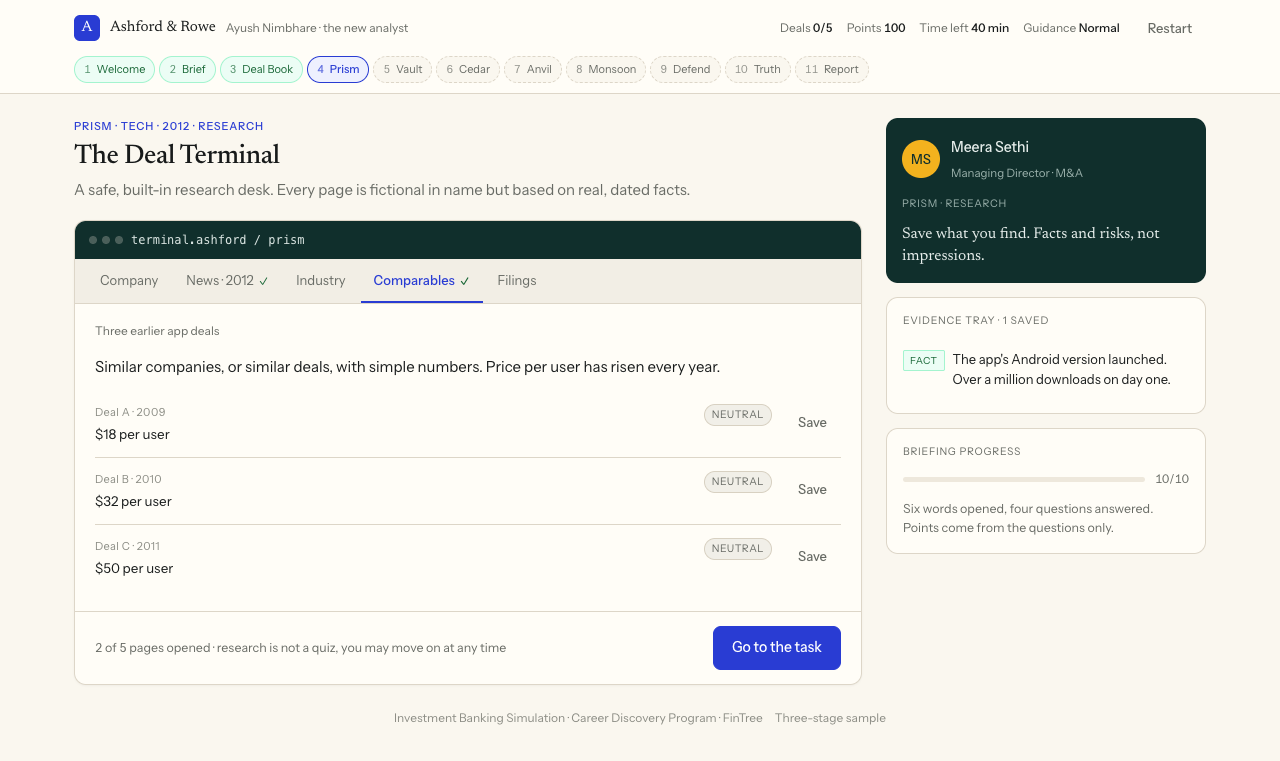
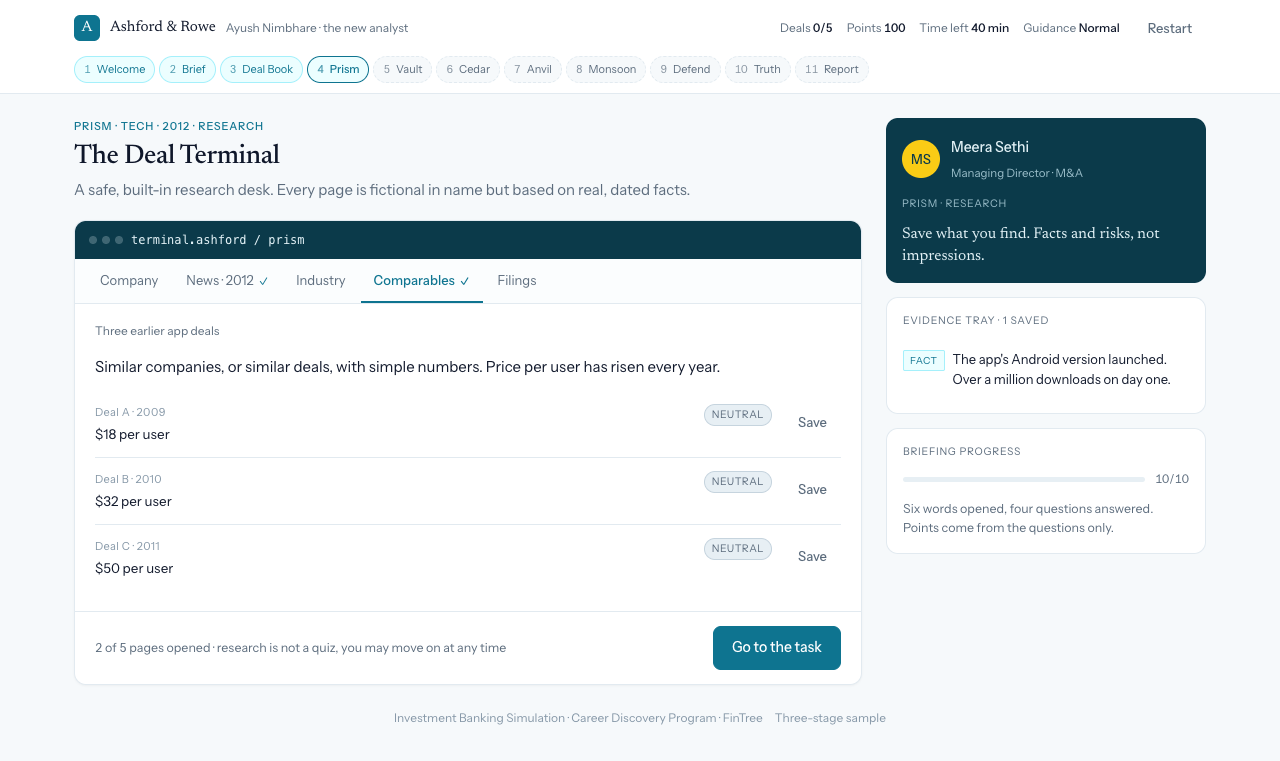
Retint the sample to a 60/30/10 palette: white, cyan, yellow
60%  white   every surface
   30%  cyan    the brand - buttons, links, the active chip, the
                companion card, the fair-range band, focus rings
   10%  yellow  the accent, spent only where it means "look here"

The 10% is the point. It lands on the marker on the fair-range bar
(the band is cyan, your price is yellow), the correct quiz answer,
the right valuation metric, the receipt stamp, the avatar and the
low clock. Cyan and yellow have to stay distinguishable, so the
correct states take yellow rather than cyan: a picked option is
cyan, a correct one yellow, a wrong one red.

Red stays outside the ratio. A wrong answer and a risk flag have to
look wrong whatever the brand is doing, so --signal-risk is
untouched - which is why the green went and the red did not.

FinTree's own tokens in static/tokens.css are left exactly as they
were, recovered-values comment and all. The palette is an override
block at the top of static/ib.css, which is the sample's own
stylesheet and already owned the track mapping. Nothing else names a
colour: the only hex left outside that block is white-on-fill, and
ib.js has no colour literals at all. Reverting to FinTree's real
palette is deleting one block.

Stray green-tinted literals in the terminal bar and companion card
were promoted to --on-dark / --on-dark-soft / --on-dark-faint rather
than patched in place.

All six screenshots re-captured; 52 tests still pass; zero console
errors across a full run.

diff --git a/static/ib.css b/static/ib.css
@@ -2,20 +2,92 @@
    FinTree CDP — Investment Banking sample
    Shell + stage styles for the three-stage sample.
 
-   PALETTE
-     The blueprint (p19) says the style should match the VC simulation:
-     "cream workspace, navy, gold". Resolved against the recovered tokens:
-       cream workspace  ->  --paper         #f6f9fb
-       navy             ->  --track-ib      #00bcd4   (the platform's own IB token)
-       gold             ->  --brand-accent  #facc15
-     Naming the tokens rather than the colours is deliberate — see the review.
+   PALETTE — the 60 / 30 / 10 rule
 
-   Depends on assets/tokens.css for variables and base resets.
+     60%  WHITE    every surface. The page, the cards, the terminal window,
+                   the rail. If it is a background, it is white.
+
+     30%  CYAN     the brand. Primary buttons, links, the active chip, focus
+                   rings, the companion card, the fair-range band, and every
+                   structural rule that should read as "ours".
+
+     10%  YELLOW   the accent, spent on purpose and nowhere else: the marker
+                   on the fair-range bar, the correct answer, the right
+                   metric, the receipt stamp, the avatar, the low clock.
+                   If it is yellow, it is the thing to look at.
+
+     RED stays outside the ratio. A wrong answer and a risk flag have to look
+     wrong whatever the brand is doing, so `--signal-risk` is untouched. It is
+     a functional colour, not part of the theme.
+
+     The tokens in tokens.css are FinTree's own, recovered from their live
+     platform. They are left exactly as they were so the provenance stays
+     readable; this file overrides the ones the sample consumes. Nothing else
+     in the sample names a colour directly — ib.css contains no hex literals
+     and ib.js contains none at all — so this block is the whole theme.
+
+   Depends on static/tokens.css for variables and base resets.
    ========================================================================== */
 
 :root {
-  --track: var(--track-ib);
-  --track-bg: var(--track-ib-bg);
+  /* --- 60 · white ------------------------------------------------------- */
+  --c-60:      #ffffff;
+  --c-60-soft: #fbfdfe;
+  --c-60-page: #f6f9fb;
+  --c-60-deep: #e7eff4;
+
+  /* --- 30 · cyan -------------------------------------------------------- */
+  --c-30:        #0e7490;   /* 5.4:1 on white — safe for text and buttons */
+  --c-30-bright: #06b6d4;
+  --c-30-soft:   #ecfeff;
+  --c-30-deep:   #164e63;
+  --c-30-deeper: #0b3a4a;
+
+  /* --- 10 · yellow ------------------------------------------------------ */
+  --c-10:      #facc15;     /* fills and marks — never small text on white */
+  --c-10-soft: #fefce8;
+  --c-10-deep: #a16207;     /* when yellow has to be readable as text */
+
+  /* --- surfaces (60) ---------------------------------------------------- */
+  --paper:        var(--c-60-page);
+  --paper-soft:   var(--c-60-soft);
+  --paper-deep:   var(--c-60-deep);
+  --paper-bright: var(--c-60);
+
+  /* --- ink -------------------------------------------------------------- */
+  --ink:         #0f172a;
+  --ink-soft:    #1e293b;
+  --ink-raised:  #0b1220;
+  --muted:       #5b6b7c;
+  --muted-soft:  #8496a6;
+  --line:        #e2eaf0;
+  --line-strong: #c6d4de;
+
+  /* --- brand (30) ------------------------------------------------------- */
+  --brand-primary: var(--c-30);
+  --track-ib:        var(--c-30);
+  --track-ib-bg:     var(--c-30-soft);
+  --track:           var(--c-30);
+  --track-bg:        var(--c-30-soft);
+  --link:            var(--c-30);
+  --sea:             var(--c-30-deep);
+  --sea-deep:        var(--c-30-deeper);
+
+  /* --- accent (10) ------------------------------------------------------ */
+  --brand-accent: var(--c-10);
+
+  /* --- text on the deep-cyan surfaces (terminal bar, companion card) ----- */
+  --on-dark:       #e3f2f7;
+  --on-dark-soft:  #9dc0cc;
+  --on-dark-faint: #3f6673;
+
+  /* --- positive states read as brand; only risk stays outside the ratio -- */
+  --signal-attractive:      var(--c-30);
+  --signal-attractive-bg:   var(--c-30-soft);
+  --signal-attractive-line: #a5f0fb;
+  --signal-context:         var(--muted);
+  --signal-context-bg:      var(--c-60-deep);
+  --signal-context-line:    var(--line-strong);
 
   --shell-max: 1180px;
   --rail-width: 320px;
@@ -100,7 +172,9 @@ body {
   font-weight: 500;
 }
 
-.clock--low { color: var(--danger); }
+/* The clock never blocks (see the README), so running low is a signal to
+   look up, not an error — it takes the accent rather than red. */
+.clock--low { color: var(--c-10-deep); }
 
 /* --- stage rail (1..11) -------------------------------------------------- */
 
@@ -590,12 +664,14 @@ body {
   flex: none;
 }
 
+/* The correct answer is the thing to look at, so it takes the 10% accent —
+   and it stays clearly distinct from the cyan "you picked this" state. */
 .option--right {
-  border-color: var(--signal-attractive);
-  background: var(--signal-attractive-bg);
+  border-color: var(--c-10);
+  background: var(--c-10-soft);
 }
 .option--right .option__key {
-  background: var(--signal-attractive); border-color: var(--signal-attractive); color: #fff;
+  background: var(--c-10); border-color: var(--c-10); color: var(--ink);
 }
 
 .option--wrong {
@@ -684,13 +760,16 @@ body {
   padding: 10px 14px;
   background: var(--sea-deep);
   border-radius: var(--radius-md) var(--radius-md) 0 0;
-  color: #d9e4e1;
+  color: var(--on-dark);
   font-family: var(--font-mono);
   font-size: 12px;
 }
 
 .terminal__dots { display: flex; gap: 5px; }
-.terminal__dot { width: 8px; height: 8px; border-radius: 50%; background: #4a5f5a; }
+.terminal__dot {
+  width: 8px; height: 8px; border-radius: 50%;
+  background: var(--on-dark-faint);
+}
 
 .tabs {
   display: flex;
@@ -843,8 +922,8 @@ body {
 .metric__note { font-size: 11.5px; color: var(--signal-attractive); }
 
 .metric--picked { border-color: var(--track); background: var(--track-bg); }
-.metric--right { border-color: var(--signal-attractive); background: var(--signal-attractive-bg); }
-.metric--right .metric__value { color: var(--signal-attractive); }
+.metric--right { border-color: var(--c-10); background: var(--c-10-soft); }
+.metric--right .metric__value { color: var(--c-10-deep); }
 .metric--wrong { border-color: var(--signal-risk); background: var(--signal-risk-bg); opacity: 0.75; }
 .metric--wrong .metric__value { color: var(--signal-risk); }
 
@@ -868,12 +947,16 @@ body {
   border-right: 1px solid var(--signal-attractive);
 }
 
+/* The accent moment of this chart: the fair range is cyan, your price is
+   yellow. The dark edge is load-bearing — yellow on a pale cyan band has
+   almost no contrast of its own, and the marker has to read at 2px wide. */
 .rangebar__marker {
   position: absolute;
   top: -3px; bottom: -3px;
-  width: 2px;
-  background: var(--ink);
-  transform: translateX(-1px);
+  width: 3px;
+  background: var(--c-10);
+  box-shadow: 0 0 0 1px rgb(15 23 42 / 0.55);
+  transform: translateX(-1.5px);
 }
 
 .rangebar__marker::after {
@@ -882,7 +965,8 @@ body {
   top: -4px; left: 50%;
   width: 9px; height: 9px;
   border-radius: 50%;
-  background: var(--ink);
+  background: var(--c-10);
+  box-shadow: 0 0 0 1.5px rgb(15 23 42 / 0.55);
   transform: translateX(-50%);
 }
 
@@ -910,7 +994,11 @@ body {
   border: 1px solid var(--signal-attractive);
 }
 
-.legend-line { width: 2px; height: 12px; background: var(--ink); }
+.legend-line {
+  width: 3px; height: 12px;
+  background: var(--c-10);
+  box-shadow: 0 0 0 1px rgb(15 23 42 / 0.55);
+}
 
 .range-summary {
   font-size: 13.5px;
@@ -1057,16 +1145,17 @@ body {
   align-items: flex-start;
 }
 
+/* The payoff of the whole run, and the loudest yellow in the app. */
 .stamp {
   font-family: var(--font-editorial);
   font-size: 26px;
   letter-spacing: 0.02em;
-  color: var(--signal-attractive);
-  border: 2px solid var(--signal-attractive);
+  color: var(--ink);
+  border: 2px solid var(--c-10);
   border-radius: var(--radius-md);
   padding: 5px 15px;
   transform: rotate(-1.6deg);
-  background: var(--signal-attractive-bg);
+  background: var(--c-10);
 }
 
 /* ==========================================================================
@@ -1075,7 +1164,7 @@ body {
 
 .companion {
   background: var(--sea-deep);
-  color: #e7eeec;
+  color: var(--on-dark);
   border-radius: var(--radius-lg);
   padding: 16px;
   display: flex;
@@ -1097,7 +1186,7 @@ body {
 }
 
 .companion__name { font-size: 14px; font-weight: 500; }
-.companion__role { font-size: 11.5px; color: #9db3ae; }
+.companion__role { font-size: 11.5px; color: var(--on-dark-soft); }
 
 .companion__line {
   font-family: var(--font-editorial);
@@ -1109,7 +1198,7 @@ body {
   font-size: 10.5px;
   letter-spacing: 0.07em;
   text-transform: uppercase;
-  color: #9db3ae;
+  color: var(--on-dark-soft);
 }
 
 .rail-card {
@@ -1181,7 +1270,7 @@ body {
 
 .toast {
   background: var(--ink-raised);
-  color: #f4f4f2;
+  color: #f1f5f9;
   padding: 10px 16px;
   border-radius: var(--radius-full);
   font-size: 13px;

diff --git a/README.md b/README.md
@@ -138,6 +138,46 @@ and the README says so rather than pretending otherwise. `SECRET_KEY` is random 
 
 ---
 
+## The palette — 60 / 30 / 10
+
+The interface runs on three colours, weighted:
+
+| Share | Colour | Where it goes |
+|---|---|---|
+| **60%** | white | every surface — the page, the cards, the terminal window, the rail |
+| **30%** | cyan `#0e7490` | the brand — primary buttons, links, the active chip, focus rings, the companion card, the fair-range band |
+| **10%** | yellow `#facc15` | the accent, and nowhere else |
+
+The 10% is the interesting part, because a rule like this is only worth following if the accent
+carries meaning. It is spent on four things, all of them "look here":
+
+- **the marker on the fair-range bar** — the band is cyan, your price is yellow, so the one number
+  you control is the one number that stands out
+- **the correct quiz answer and the right valuation metric** — the thing you were supposed to find
+- **the receipt stamp** — the payoff of the run
+- **the avatar and the low clock** — small, and only when they should catch your eye
+
+Cyan and yellow have to stay distinguishable, which is why the *correct* states take yellow rather
+than cyan: a picked-but-unconfirmed option is cyan, a correct one is yellow, a wrong one is red.
+
+**Red sits outside the ratio.** A wrong answer and a risk flag have to look wrong whatever the
+brand is doing, so `--signal-risk` is untouched. It is a functional colour, not part of the theme —
+the same reason the green is gone but the red is not.
+
+**How it is implemented.** FinTree's own tokens live in `static/tokens.css`, recovered from their
+live platform, and they are left exactly as they were — the file still says what it was recovered
+from and which values are track. The 60/30/10 palette is an override block at the top of
+`static/ib.css`, which is the sample's own stylesheet and already owned the track mapping. Nothing
+else names a colour: `ib.css` contains no stray hex outside that block, and `ib.js` contains no
+colour literals at all. So the whole theme is one block, and reverting to FinTree's real palette
+means deleting it.
+
+Worth saying plainly: this is a **deliberate departure** from the blueprint, which asks for the VC
+simulation's *"cream workspace, navy, gold."* The palette is now ours rather than theirs. The
+recovered tokens stay in the repo so the switch back is one deletion, not an archaeology exercise.
+
+---
+
 ## The privacy boundary
 
 The claim this architecture exists to support is: **a player who reads every byte the browser
@@ -219,8 +259,8 @@ different things and now stay separate: a bad request gets a 409 with a readable
 ## Attribution
 
 Built by Ayush as a portfolio piece, from FinTree's Investment Banking blueprint. The design
-tokens in `static/tokens.css` were recovered from FinTree's live platform so the sample reads as
-track rather than as a pastiche. The deal content is adapted from the blueprint, which describes
-real historical transactions; company names stay hidden behind codenames exactly as the blueprint
-specifies, and the sample never states an outcome. Happy to remove or replace any of it on
-request.
+tokens in `static/tokens.css` were recovered from FinTree's live platform, and are kept there
+unmodified so the provenance is readable; the interface on top of them runs the 60/30/10 palette
+described above. The deal content is adapted from the blueprint, which describes real historical
+transactions; company names stay hidden behind codenames exactly as the blueprint specifies, and
+the sample never states an outcome. Happy to remove or replace any of it on request.
